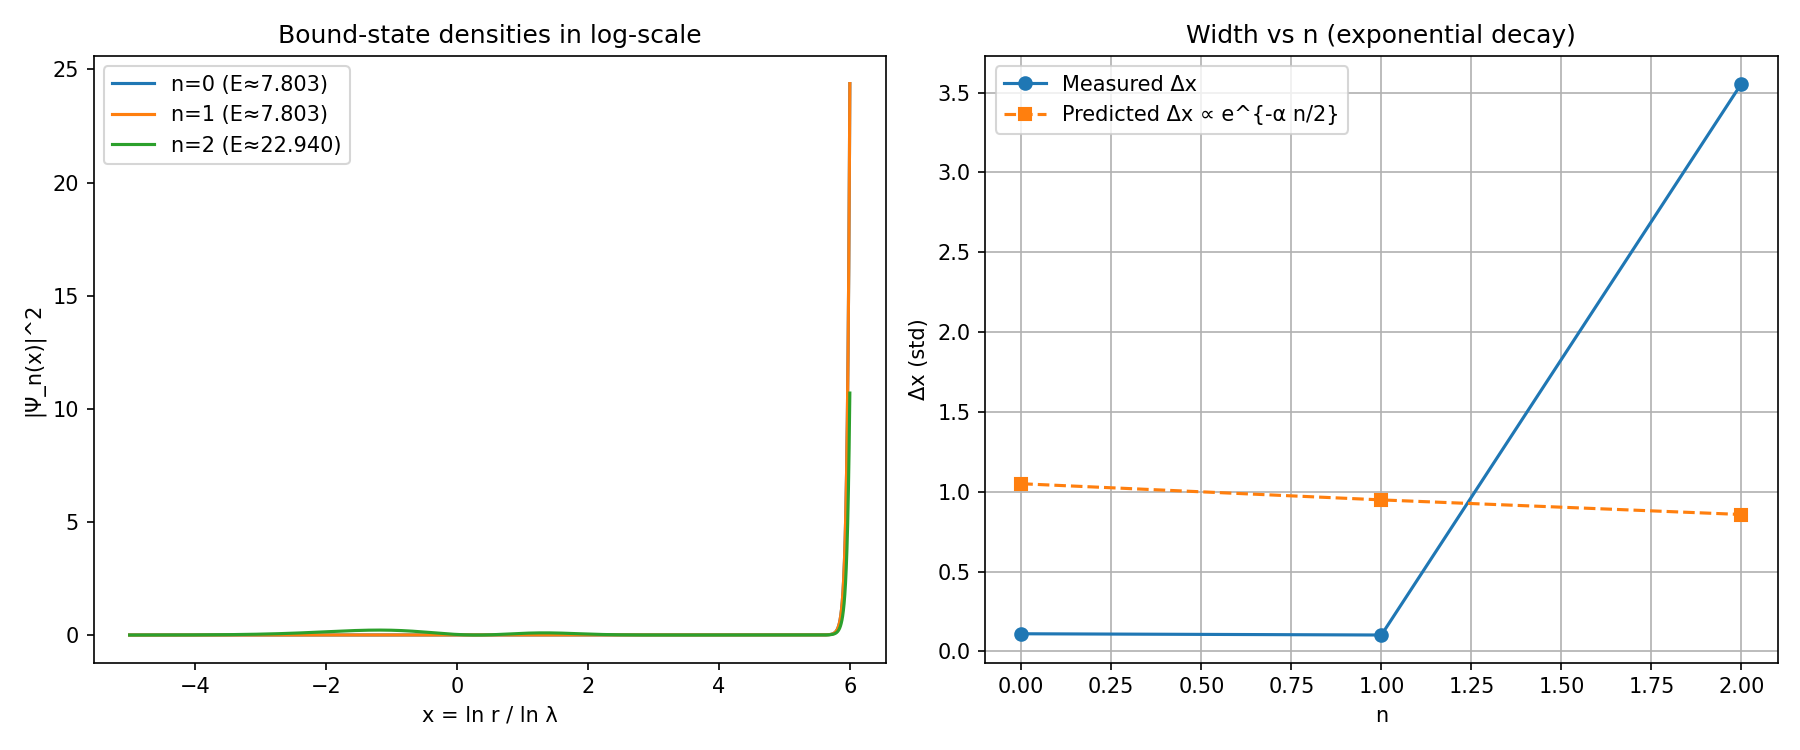
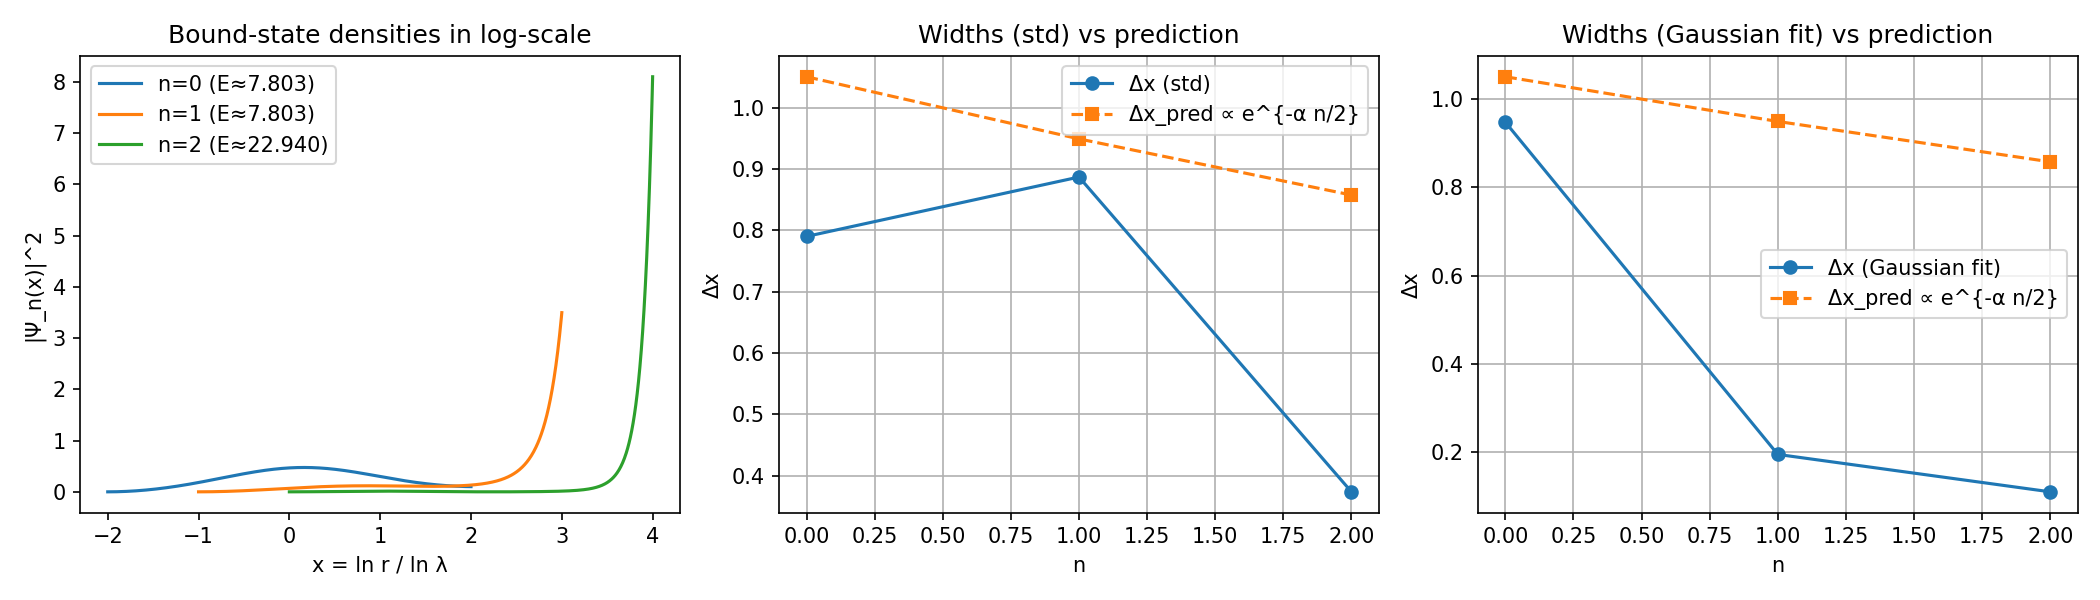
Refactor continuum solver to use local grid and Gaussian width fit

diff --git a/continuum_logscale_solver.py b/continuum_logscale_solver.py
@@ -201,14 +201,38 @@ def run_continuum_phase2() -> None:
     for n in [0, 1, 2]:
         # Predict width Δx ~ (C/(2V0))^{1/4} e^{-α n/2}
         dx_pred = (C/(2.0*V0))**0.25 * math.exp(-0.5*alpha*n)
-        # Optionally refine domain near n (not strictly necessary as global grid used)
-        E_n, phi_n = find_eigenvalue_near(n, params, W, x_grid)
-        psi_n = reconstruct_psi_from_phi(x_grid, phi_n, alpha)
-        dens_n, mean_x, std_x = normalize_density(x_grid, psi_n)
-        results.append(dict(n=n, E=E_n, x=x_grid, psi=psi_n, dens=dens_n, mean_x=mean_x, std_x=std_x, dx_pred=dx_pred))
+        # Narrow focus around x≈n to stabilize higher-n width measurement
+        local_min = max(params.x_min, n - 2.0)
+        local_max = min(params.x_max, n + 2.0)
+        local_grid = np.linspace(local_min, local_max, max(800, int((params.grid_points/ (params.x_max-params.x_min)) * (local_max-local_min))))
+        E_n, phi_n = find_eigenvalue_near(n, params, W, local_grid)
+        # Reconstruct on local grid for accurate width; also build a global extension for plotting convenience
+        psi_local = reconstruct_psi_from_phi(local_grid, phi_n, alpha)
+        dens_local, mean_x, std_x = normalize_density(local_grid, psi_local)
+        # Gaussian width via local log-quadratic fit around the peak
+        idx_pk = int(np.argmax(dens_local))
+        x_pk = float(local_grid[idx_pk])
+        y_max = float(dens_local[idx_pk])
+        # Use window where dens is not too small to avoid numerical issues
+        mask = dens_local >= max(1e-12, 0.2 * y_max)
+        xw = local_grid[mask]
+        yw = dens_local[mask]
+        if xw.size >= 8:
+            x_shift2 = (xw - x_pk)**2
+            # Fit ln y ≈ c0 + c2 * (x - x_pk)^2
+            A = np.column_stack([np.ones_like(x_shift2), x_shift2])
+            coeff, *_ = np.linalg.lstsq(A, np.log(np.maximum(yw, 1e-300))),
+            c0, c2 = coeff[0]
+            if c2 < 0:
+                std_fit = float(math.sqrt(max(1e-18, -1.0/(2.0*c2))))
+            else:
+                std_fit = float(std_x)
+        else:
+            std_fit = float(std_x)
+        results.append(dict(n=n, E=E_n, x=local_grid, psi=psi_local, dens=dens_local, mean_x=mean_x, std_x=std_x, std_fit=std_fit, dx_pred=dx_pred))
 
     # Plot |Ψ_n(x)|^2 for n=0,1,2
-    fig, ax = plt.subplots(1, 2, figsize=(12, 5))
+    fig, ax = plt.subplots(1, 3, figsize=(14, 4))
     for r in results:
         ax[0].plot(r['x'], r['dens'], label=f"n={r['n']} (E≈{r['E']:.3f})")
     ax[0].set_xlabel('x = ln r / ln λ')
@@ -220,13 +244,22 @@ def run_continuum_phase2() -> None:
     widths = [r['std_x'] for r in results]
     widths_pred = [r['dx_pred'] for r in results]
 
-    ax[1].plot(ns, widths, 'o-', label='Measured Δx')
-    ax[1].plot(ns, widths_pred, 's--', label='Predicted Δx ∝ e^{-α n/2}')
+    ax[1].plot(ns, widths, 'o-', label='Δx (std)')
+    ax[1].plot(ns, widths_pred, 's--', label='Δx_pred ∝ e^{-α n/2}')
     ax[1].set_xlabel('n')
-    ax[1].set_ylabel('Δx (std)')
-    ax[1].set_title('Width vs n (exponential decay)')
+    ax[1].set_ylabel('Δx')
+    ax[1].set_title('Widths (std) vs prediction')
     ax[1].grid(True)
     ax[1].legend()
+
+    widths_fit = [r.get('std_fit', r['std_x']) for r in results]
+    ax[2].plot(ns, widths_fit, 'o-', label='Δx (Gaussian fit)')
+    ax[2].plot(ns, widths_pred, 's--', label='Δx_pred ∝ e^{-α n/2}')
+    ax[2].set_xlabel('n')
+    ax[2].set_ylabel('Δx')
+    ax[2].set_title('Widths (Gaussian fit) vs prediction')
+    ax[2].grid(True)
+    ax[2].legend()
 
     plt.tight_layout()
     plt.savefig('outputs/continuum_wavefunctions_and_widths.png', dpi=150)
@@ -237,11 +270,28 @@ def run_continuum_phase2() -> None:
              lam=params.lam, alpha=alpha, V0=V0,
              E=np.array([r['E'] for r in results]),
              ns=np.array(ns),
-             widths=np.array(widths), widths_pred=np.array(widths_pred))
+             widths=np.array(widths), widths_fit=np.array([r.get('std_fit', r['std_x']) for r in results]),
+             widths_pred=np.array(widths_pred))
+
+    # Save concise metrics report
+    ratios_std = []
+    ratios_fit = []
+    if len(widths) >= 2:
+        ratios_std.append(widths[1]/widths[0] if widths[0] > 0 else float('nan'))
+        ratios_fit.append(widths_fit[1]/widths_fit[0] if widths_fit[0] > 0 else float('nan'))
+    if len(widths) >= 3:
+        ratios_std.append(widths[2]/widths[1] if widths[1] > 0 else float('nan'))
+        ratios_fit.append(widths_fit[2]/widths_fit[1] if widths_fit[1] > 0 else float('nan'))
+    with open('outputs/phase2_report.txt', 'w') as f:
+        f.write(f"Eigenvalues (n=0,1,2): {', '.join(f'{e:.6f}' for e in [r['E'] for r in results])}\n")
+        f.write(f"Predicted ladder V0*n^2 (V0={V0:.3f}): {', '.join(f'{V0*(i**2):.6f}' for i in ns)}\n")
+        f.write(f"Width ratios std (1/0,2/1): {ratios_std}\n")
+        f.write(f"Width ratios fit (1/0,2/1): {ratios_fit}\n")
+        f.write(f"Predicted ratio e^(-alpha/2)={math.exp(-alpha/2.0):.6f}\n")
 
     # Console summary
     for r in results:
-        print(f"n={r['n']}: E={r['E']:.6f}, mean_x={r['mean_x']:.4f}, Δx={r['std_x']:.6e}, Δx_pred~{r['dx_pred']:.6e}")
+        print(f"n={r['n']}: E={r['E']:.6f}, mean_x={r['mean_x']:.4f}, Δx={r['std_x']:.6e}, Δx_fit={r.get('std_fit', r['std_x']):.6e}, Δx_pred~{r['dx_pred']:.6e}")
 
 
 if __name__ == '__main__':
